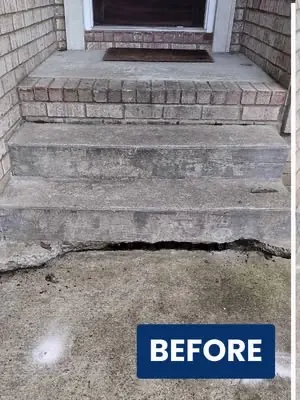
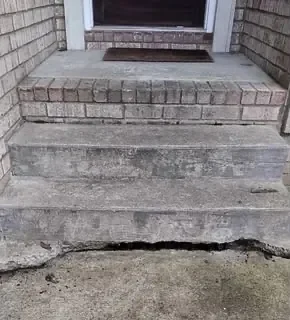
Clean up site photos
Trim leftover strips from split before/after images, crop out half-cut
printed labels on the step repair and crawl space pairs, replace the
low-res parapet photo with the rooftop shot of the finished parapet,
set every image's width/height to its real size, and remove two unused
placeholder graphics.

Claude-Session: https://claude.ai/code/session_01FLkgB6UgoCACxF2mTEE9PF

diff --git a/crawl-space-encapsulation/index.html b/crawl-space-encapsulation/index.html
@@ -465,7 +465,7 @@
   <section class="section" aria-labelledby="explainer-heading">
     <div class="container split split--media-right">
       <div class="split__media img-shimmer" data-anim="right">
-        <img src="/assets/images/photo-crawl-space-encapsulation.webp?v=315466d2" alt="Prairie Shield crawl space encapsulation work on a Chicago property" width="960" height="720" loading="lazy">
+        <img src="/assets/images/photo-crawl-space-encapsulation.webp?v=315466d2" alt="Prairie Shield crawl space encapsulation work on a Chicago property" width="1016" height="760" loading="lazy">
       </div>
       <div class="split__body" data-anim="left">
         <span class="eyebrow">In Plain English</span>
@@ -622,15 +622,15 @@
     <div class="ba-grid ba-grid--2 stagger-group">
       <div class="ba-item" data-anim>
         <div class="ba-pair">
-          <figure><span class="ba-tag">Before</span><img src="/assets/images/ba-crawl-space-encapsulation-1-before.webp?v=06893187" alt="Before: crawl space encapsulation in Chicago prior to repair by Prairie Shield" width="480" height="360" loading="lazy"></figure>
-          <figure><span class="ba-tag ba-tag--after">After</span><img src="/assets/images/ba-crawl-space-encapsulation-1-after.webp?v=9f452cde" alt="After: the same crawl space encapsulation completed by Prairie Shield" width="480" height="360" loading="lazy"></figure>
+          <figure><span class="ba-tag">Before</span><img src="/assets/images/ba-crawl-space-encapsulation-1-before.webp?v=b4b3d137" alt="Before: crawl space encapsulation in Chicago prior to repair by Prairie Shield" width="285" height="191" loading="lazy"></figure>
+          <figure><span class="ba-tag ba-tag--after">After</span><img src="/assets/images/ba-crawl-space-encapsulation-1-after.webp?v=7d260174" alt="After: the same crawl space encapsulation completed by Prairie Shield" width="285" height="191" loading="lazy"></figure>
         </div>
         <p class="ba-item__cap">Project 1</p>
       </div>
       <div class="ba-item" data-anim>
         <div class="ba-pair">
-          <figure><span class="ba-tag">Before</span><img src="/assets/images/ba-crawl-space-encapsulation-2-before.webp?v=f3b615aa" alt="Before: crawl space encapsulation in Chicago prior to repair by Prairie Shield" width="480" height="360" loading="lazy"></figure>
-          <figure><span class="ba-tag ba-tag--after">After</span><img src="/assets/images/ba-crawl-space-encapsulation-2-after.webp?v=75e99ef7" alt="After: the same crawl space encapsulation completed by Prairie Shield" width="480" height="360" loading="lazy"></figure>
+          <figure><span class="ba-tag">Before</span><img src="/assets/images/ba-crawl-space-encapsulation-2-before.webp?v=aacfca00" alt="Before: crawl space encapsulation in Chicago prior to repair by Prairie Shield" width="285" height="191" loading="lazy"></figure>
+          <figure><span class="ba-tag ba-tag--after">After</span><img src="/assets/images/ba-crawl-space-encapsulation-2-after.webp?v=bf55a60c" alt="After: the same crawl space encapsulation completed by Prairie Shield" width="285" height="191" loading="lazy"></figure>
         </div>
         <p class="ba-item__cap">Project 2</p>
       </div>

diff --git a/step-repair/index.html b/step-repair/index.html
@@ -465,7 +465,7 @@
   <section class="section" aria-labelledby="explainer-heading">
     <div class="container split split--media-right">
       <div class="split__media img-shimmer" data-anim="right">
-        <img src="/assets/images/photo-step-repair.webp?v=99e145a7" alt="Prairie Shield step repair work on a Chicago property" width="960" height="720" loading="lazy">
+        <img src="/assets/images/photo-step-repair.webp?v=99e145a7" alt="Prairie Shield step repair work on a Chicago property" width="1100" height="1465" loading="lazy">
       </div>
       <div class="split__body" data-anim="left">
         <span class="eyebrow">In Plain English</span>
@@ -622,15 +622,15 @@
     <div class="ba-grid ba-grid--2 stagger-group">
       <div class="ba-item" data-anim>
         <div class="ba-pair">
-          <figure><span class="ba-tag">Before</span><img src="/assets/images/ba-step-repair-1-before.webp?v=c0debdf8" alt="Before: step repair in Chicago prior to repair by Prairie Shield" width="480" height="360" loading="lazy"></figure>
-          <figure><span class="ba-tag ba-tag--after">After</span><img src="/assets/images/ba-step-repair-1-after.webp?v=045a9311" alt="After: the same step repair completed by Prairie Shield" width="480" height="360" loading="lazy"></figure>
+          <figure><span class="ba-tag">Before</span><img src="/assets/images/ba-step-repair-1-before.webp?v=d4bd67a5" alt="Before: step repair in Chicago prior to repair by Prairie Shield" width="442" height="638" loading="lazy"></figure>
+          <figure><span class="ba-tag ba-tag--after">After</span><img src="/assets/images/ba-step-repair-1-after.webp?v=3804b5be" alt="After: the same step repair completed by Prairie Shield" width="470" height="638" loading="lazy"></figure>
         </div>
         <p class="ba-item__cap">Project 1</p>
       </div>
       <div class="ba-item" data-anim>
         <div class="ba-pair">
-          <figure><span class="ba-tag">Before</span><img src="/assets/images/ba-step-repair-2-before.webp?v=9025961c" alt="Before: step repair in Chicago prior to repair by Prairie Shield" width="480" height="360" loading="lazy"></figure>
-          <figure><span class="ba-tag ba-tag--after">After</span><img src="/assets/images/ba-step-repair-2-after.webp?v=495eac67" alt="After: the same step repair completed by Prairie Shield" width="480" height="360" loading="lazy"></figure>
+          <figure><span class="ba-tag">Before</span><img src="/assets/images/ba-step-repair-2-before.webp?v=dcf98f14" alt="Before: step repair in Chicago prior to repair by Prairie Shield" width="290" height="320" loading="lazy"></figure>
+          <figure><span class="ba-tag ba-tag--after">After</span><img src="/assets/images/ba-step-repair-2-after.webp?v=6bc64c34" alt="After: the same step repair completed by Prairie Shield" width="280" height="320" loading="lazy"></figure>
         </div>
         <p class="ba-item__cap">Project 2</p>
       </div>

diff --git a/chimney-rebuilds/index.html b/chimney-rebuilds/index.html
@@ -465,7 +465,7 @@
   <section class="section" aria-labelledby="explainer-heading">
     <div class="container split split--media-right">
       <div class="split__media img-shimmer" data-anim="right">
-        <img src="/assets/images/photo-chimney-rebuilds.webp?v=2fd0254c" alt="Prairie Shield chimney rebuilds work on a Chicago property" width="960" height="720" loading="lazy">
+        <img src="/assets/images/photo-chimney-rebuilds.webp?v=2fd0254c" alt="Prairie Shield chimney rebuilds work on a Chicago property" width="640" height="480" loading="lazy">
       </div>
       <div class="split__body" data-anim="left">
         <span class="eyebrow">In Plain English</span>
@@ -622,8 +622,8 @@
     <div class="ba-grid ba-grid--1 stagger-group">
       <div class="ba-item" data-anim>
         <div class="ba-pair">
-          <figure><span class="ba-tag">Before</span><img src="/assets/images/ba-chimney-rebuilds-1-before.webp?v=f44273c9" alt="Before: chimney rebuilds in Chicago prior to repair by Prairie Shield" width="480" height="360" loading="lazy"></figure>
-          <figure><span class="ba-tag ba-tag--after">After</span><img src="/assets/images/ba-chimney-rebuilds-1-after.webp?v=2a69e0ec" alt="After: the same chimney rebuilds completed by Prairie Shield" width="480" height="360" loading="lazy"></figure>
+          <figure><span class="ba-tag">Before</span><img src="/assets/images/ba-chimney-rebuilds-1-before.webp?v=976434b8" alt="Before: chimney rebuilds in Chicago prior to repair by Prairie Shield" width="484" height="785" loading="lazy"></figure>
+          <figure><span class="ba-tag ba-tag--after">After</span><img src="/assets/images/ba-chimney-rebuilds-1-after.webp?v=2a69e0ec" alt="After: the same chimney rebuilds completed by Prairie Shield" width="512" height="785" loading="lazy"></figure>
         </div>
         <p class="ba-item__cap">Project 1</p>
       </div>

diff --git a/brick-repair/index.html b/brick-repair/index.html
@@ -465,7 +465,7 @@
   <section class="section" aria-labelledby="explainer-heading">
     <div class="container split split--media-right">
       <div class="split__media img-shimmer" data-anim="right">
-        <img src="/assets/images/photo-brick-repair.webp?v=acdd62d8" alt="Prairie Shield brick repair work on a Chicago property" width="960" height="720" loading="lazy">
+        <img src="/assets/images/photo-brick-repair.webp?v=acdd62d8" alt="Prairie Shield brick repair work on a Chicago property" width="1100" height="733" loading="lazy">
       </div>
       <div class="split__body" data-anim="left">
         <span class="eyebrow">In Plain English</span>
@@ -622,8 +622,8 @@
     <div class="ba-grid ba-grid--2 stagger-group">
       <div class="ba-item" data-anim>
         <div class="ba-pair">
-          <figure><span class="ba-tag">Before</span><img src="/assets/images/ba-brick-repair-1-before.webp?v=fb444ee0" alt="Before: brick repair in Chicago prior to repair by Prairie Shield" width="480" height="360" loading="lazy"></figure>
-          <figure><span class="ba-tag ba-tag--after">After</span><img src="/assets/images/ba-brick-repair-1-after.webp?v=09e18092" alt="After: the same brick repair completed by Prairie Shield" width="480" height="360" loading="lazy"></figure>
+          <figure><span class="ba-tag">Before</span><img src="/assets/images/ba-brick-repair-1-before.webp?v=fb444ee0" alt="Before: brick repair in Chicago prior to repair by Prairie Shield" width="820" height="1093" loading="lazy"></figure>
+          <figure><span class="ba-tag ba-tag--after">After</span><img src="/assets/images/ba-brick-repair-1-after.webp?v=09e18092" alt="After: the same brick repair completed by Prairie Shield" width="820" height="1093" loading="lazy"></figure>
         </div>
         <p class="ba-item__cap">Project 1</p>
       </div>

diff --git a/residential-masonry/index.html b/residential-masonry/index.html
@@ -465,7 +465,7 @@
   <section class="section" aria-labelledby="explainer-heading">
     <div class="container split split--media-right">
       <div class="split__media img-shimmer" data-anim="right">
-        <img src="/assets/images/photo-residential-masonry.webp?v=a9148f32" alt="Prairie Shield residential masonry work on a Chicago property" width="960" height="720" loading="lazy">
+        <img src="/assets/images/photo-residential-masonry.webp?v=a9148f32" alt="Prairie Shield residential masonry work on a Chicago property" width="1080" height="1440" loading="lazy">
       </div>
       <div class="split__body" data-anim="left">
         <span class="eyebrow">In Plain English</span>
@@ -623,7 +623,7 @@
       <div class="ba-item" data-anim>
         <div class="ba-pair">
           <figure><span class="ba-tag">Before</span><img src="/assets/images/ba-residential-masonry-1-before.webp?v=b549802f" alt="Before: deteriorated brick chimney on a Chicago home" width="631" height="1000" loading="lazy"></figure>
-          <figure><span class="ba-tag ba-tag--after">After</span><img src="/assets/images/ba-residential-masonry-1-after.webp?v=899729c5" alt="After: the chimney rebuilt" width="337" height="586" loading="lazy"></figure>
+          <figure><span class="ba-tag ba-tag--after">After</span><img src="/assets/images/ba-residential-masonry-1-after.webp?v=bc098e44" alt="After: the chimney rebuilt" width="331" height="586" loading="lazy"></figure>
         </div>
         <p class="ba-item__cap">Project 1</p>
       </div>

diff --git a/french-drain-drain-tile/index.html b/french-drain-drain-tile/index.html
@@ -464,7 +464,7 @@
   <section class="section" aria-labelledby="explainer-heading">
     <div class="container split split--media-right">
       <div class="split__media img-shimmer" data-anim="right">
-        <img src="/assets/images/photo-french-drain-drain-tile.webp?v=a5c02854" alt="Prairie Shield french drain &amp; drain tile systems work on a Chicago property" width="960" height="720" loading="lazy">
+        <img src="/assets/images/photo-french-drain-drain-tile.webp?v=a5c02854" alt="Prairie Shield french drain &amp; drain tile systems work on a Chicago property" width="1100" height="619" loading="lazy">
       </div>
       <div class="split__body" data-anim="left">
         <span class="eyebrow">In Plain English</span>

diff --git a/foundation-crack-repair/index.html b/foundation-crack-repair/index.html
@@ -464,7 +464,7 @@
   <section class="section" aria-labelledby="explainer-heading">
     <div class="container split split--media-right">
       <div class="split__media img-shimmer" data-anim="right">
-        <img src="/assets/images/photo-foundation-crack-repair.webp?v=5bbfe28b" alt="Prairie Shield foundation crack repair work on a Chicago property" width="960" height="720" loading="lazy">
+        <img src="/assets/images/photo-foundation-crack-repair.webp?v=5bbfe28b" alt="Prairie Shield foundation crack repair work on a Chicago property" width="640" height="480" loading="lazy">
       </div>
       <div class="split__body" data-anim="left">
         <span class="eyebrow">In Plain English</span>

diff --git a/basement-waterproofing/index.html b/basement-waterproofing/index.html
@@ -464,7 +464,7 @@
   <section class="section" aria-labelledby="explainer-heading">
     <div class="container split split--media-right">
       <div class="split__media img-shimmer" data-anim="right">
-        <img src="/assets/images/photo-basement-waterproofing.webp?v=3a217efe" alt="Prairie Shield basement waterproofing work on a Chicago property" width="960" height="720" loading="lazy">
+        <img src="/assets/images/photo-basement-waterproofing.webp?v=3a217efe" alt="Prairie Shield basement waterproofing work on a Chicago property" width="1100" height="1467" loading="lazy">
       </div>
       <div class="split__body" data-anim="left">
         <span class="eyebrow">In Plain English</span>

diff --git a/bowed-wall-repair/index.html b/bowed-wall-repair/index.html
@@ -463,7 +463,7 @@
   <section class="section" aria-labelledby="explainer-heading">
     <div class="container split split--media-right">
       <div class="split__media img-shimmer" data-anim="right">
-        <img src="/assets/images/photo-bowed-wall-repair.webp?v=c7d4cf27" alt="Prairie Shield bowed or bowing wall repair work on a Chicago property" width="960" height="720" loading="lazy">
+        <img src="/assets/images/photo-bowed-wall-repair.webp?v=c7d4cf27" alt="Prairie Shield bowed or bowing wall repair work on a Chicago property" width="480" height="640" loading="lazy">
       </div>
       <div class="split__body" data-anim="left">
         <span class="eyebrow">In Plain English</span>

diff --git a/parapet-wall-repair/index.html b/parapet-wall-repair/index.html
@@ -465,7 +465,7 @@
   <section class="section" aria-labelledby="explainer-heading">
     <div class="container split split--media-right">
       <div class="split__media img-shimmer" data-anim="right">
-        <img src="/assets/images/photo-parapet-wall-repair.webp?v=a58a63c1" alt="Prairie Shield parapet wall repair work on a Chicago property" width="960" height="720" loading="lazy">
+        <img src="/assets/images/photo-parapet-wall-repair.webp?v=223ddbb7" alt="Repaired brick parapet walls along the roofline of a Chicago building" width="1200" height="900" loading="lazy">
       </div>
       <div class="split__body" data-anim="left">
         <span class="eyebrow">In Plain English</span>

diff --git a/mortar-joint-repair/index.html b/mortar-joint-repair/index.html
@@ -465,7 +465,7 @@
   <section class="section" aria-labelledby="explainer-heading">
     <div class="container split split--media-right">
       <div class="split__media img-shimmer" data-anim="right">
-        <img src="/assets/images/photo-mortar-joint-repair.webp?v=02d6fc68" alt="Prairie Shield mortar joint repair work on a Chicago property" width="960" height="720" loading="lazy">
+        <img src="/assets/images/photo-mortar-joint-repair.webp?v=02d6fc68" alt="Prairie Shield mortar joint repair work on a Chicago property" width="1100" height="733" loading="lazy">
       </div>
       <div class="split__body" data-anim="left">
         <span class="eyebrow">In Plain English</span>

diff --git a/lintel-replacement/index.html b/lintel-replacement/index.html
@@ -465,7 +465,7 @@
   <section class="section" aria-labelledby="explainer-heading">
     <div class="container split split--media-right">
       <div class="split__media img-shimmer" data-anim="right">
-        <img src="/assets/images/photo-lintel-replacement.webp?v=994097ff" alt="Prairie Shield lintel replacement work on a Chicago property" width="960" height="720" loading="lazy">
+        <img src="/assets/images/photo-lintel-replacement.webp?v=994097ff" alt="Prairie Shield lintel replacement work on a Chicago property" width="946" height="2048" loading="lazy">
       </div>
       <div class="split__body" data-anim="left">
         <span class="eyebrow">In Plain English</span>
